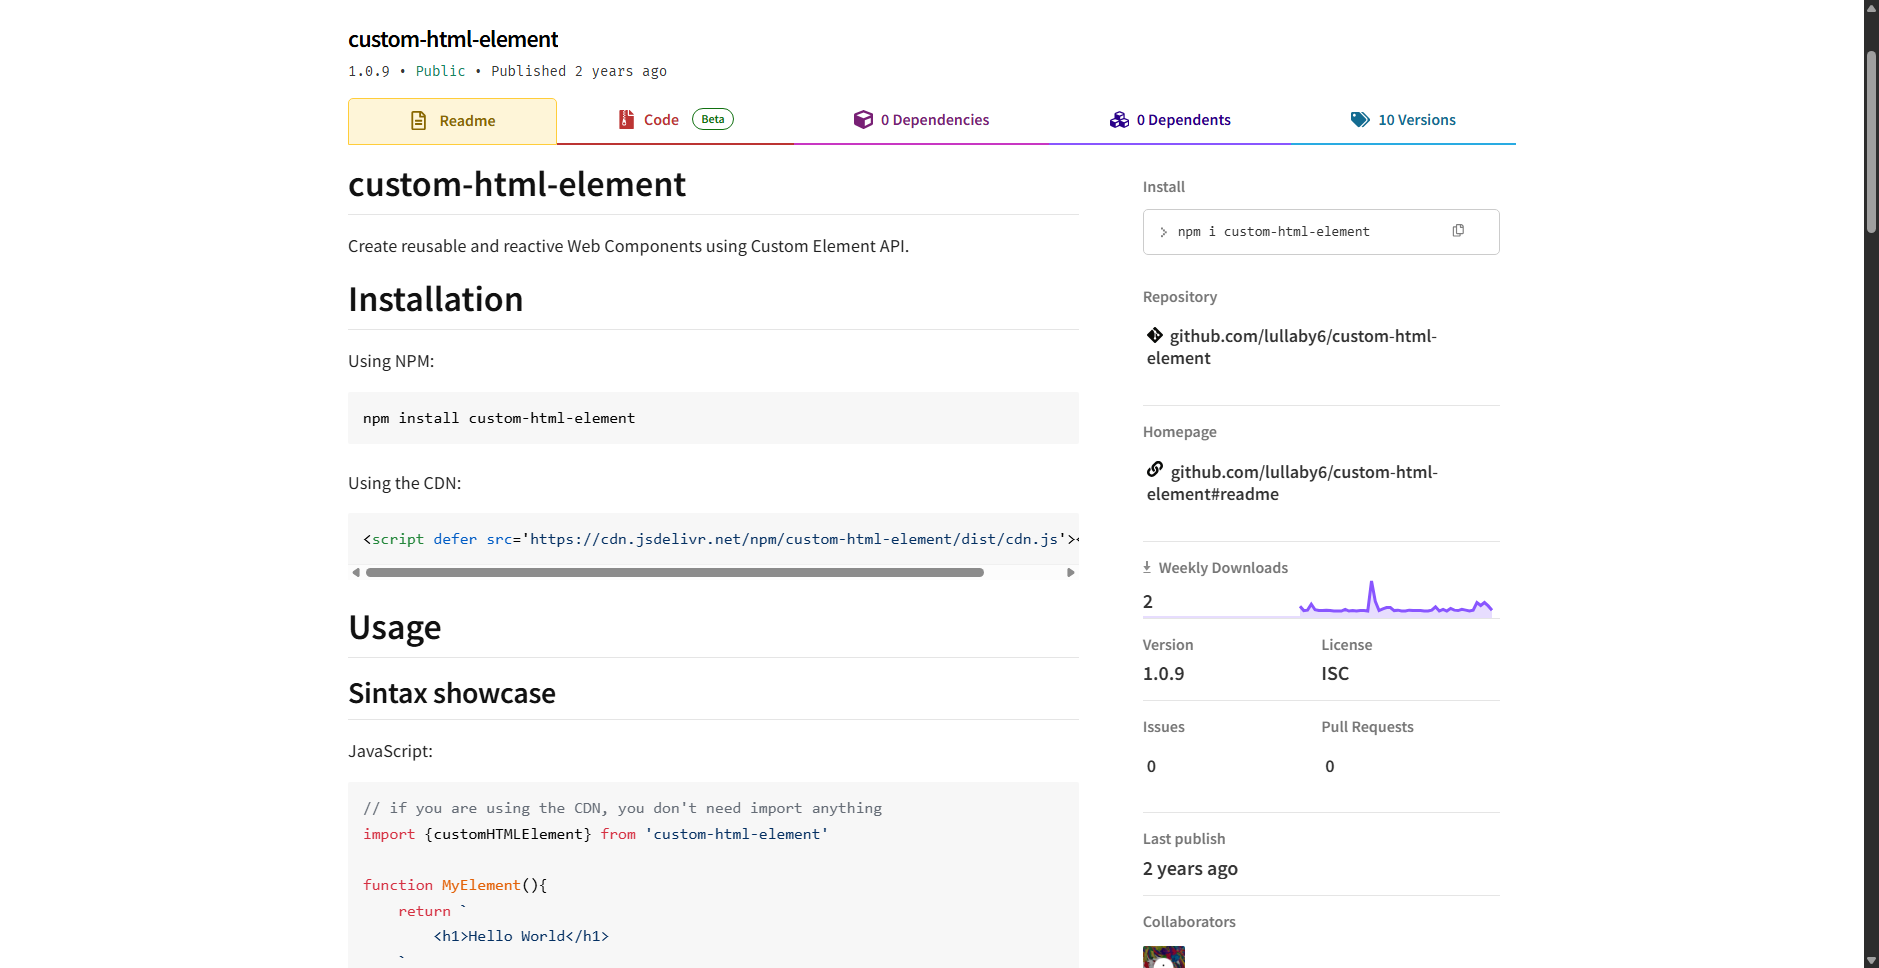
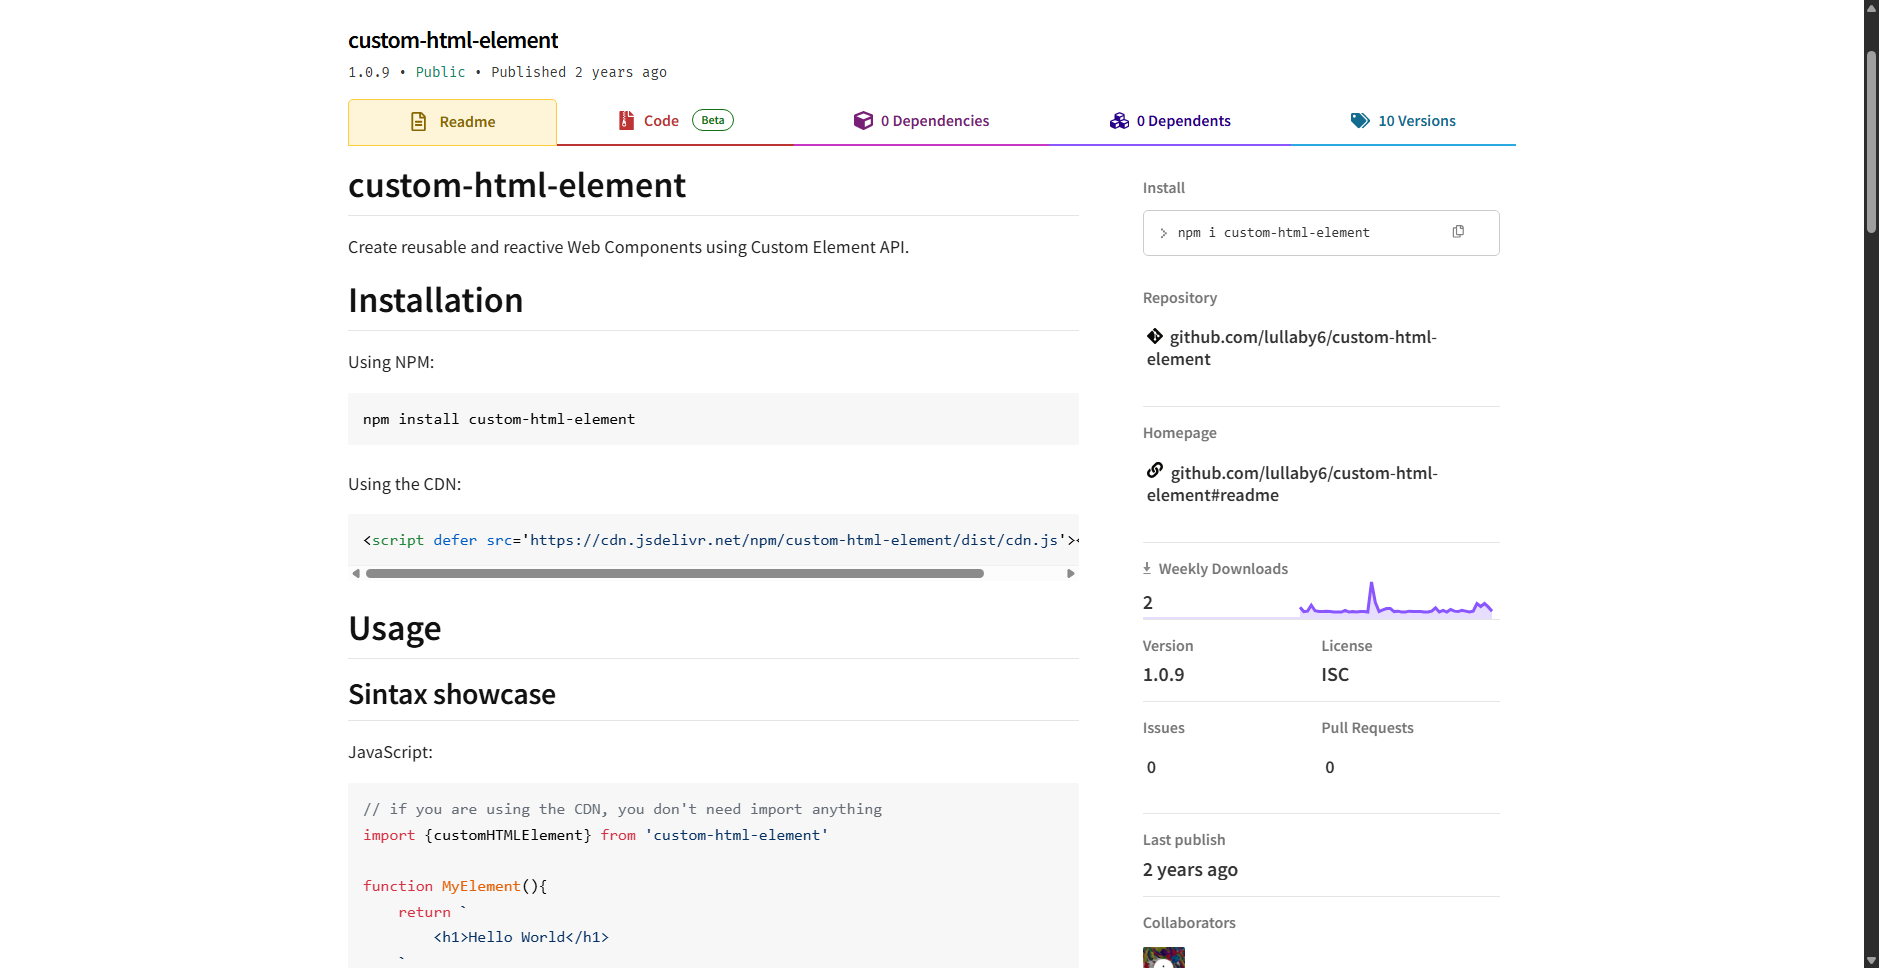
projects images

diff --git a/src/data/projects.ts b/src/data/projects.ts
@@ -2,8 +2,7 @@ export interface Project {
 	name: string;
 	href: string;
 	description: string;
-	iframe?: boolean;
-	image?: string;
+	image: string;
 }
 
 export const projects: Project[] = [
@@ -12,7 +11,6 @@ export const projects: Project[] = [
 		href: "https://github.com/lullaby6/zschema",
 		description:
 			"PHP library to validate schemas and data types, inspired by Zod from TypeScript.",
-		iframe: false,
 		image: "/assets/images/projects/zschema.png",
 	},
 	{
@@ -20,52 +18,52 @@ export const projects: Project[] = [
 		href: "https://www.npmjs.com/package/locale-drive",
 		description:
 			'Web app to share and transfer files across your local network, like a "Google Drive" for your LAN, built with Express.js and React.',
-		iframe: false,
 		image: "/assets/images/projects/Locale Drive.png",
 	},
 	{
 		name: "ChessGPT",
 		href: "https://github.com/lullaby6/ChessGPT",
 		description: "Python game that lets you play chess against ChatGPT.",
-		iframe: false,
 		image: "/assets/images/projects/ChessGPT.png",
 	},
 	{
 		name: "Sviewer",
 		href: "https://sviewer.vercel.app",
 		description: "Image Viewer built with Vue3 and Tailwind CSS.",
+		image: "/assets/images/projects/Sviewer.png",
 	},
 	{
 		name: "Speed Coder",
 		href: "https://lullaby6.github.io/speed-coder",
 		description:
 			"My own take on MonkeyType, a typing speed game made for programmers.",
+		image: "/assets/images/projects/Speed Coder.png",
 	},
 	{
 		name: "GitPush",
 		href: "https://github.com/lullaby6/git-push",
 		description:
 			"Python CLI that runs git add, commit, and push in a single command.",
-		iframe: false,
 		image: "/assets/images/projects/GitPush.png",
 	},
 	{
 		name: "Starbits",
 		href: "https://starbits.site",
 		description: "2D bullet hell game built with Phaser.js.",
+		image: "/assets/images/projects/Starbits.png",
 	},
 	{
 		name: "Fondo de Cine",
 		href: "https://fondodecine.com.ar",
 		description:
 			"Landing page built with Astro for an independent film festival.",
+		image: "/assets/images/projects/Fondo de Cine.png",
 	},
 	{
 		name: "Video Speed Control",
 		href: "https://github.com/lullaby6/video-speed-control",
 		description:
 			"Chromium extension to control the playback speed of any video without limits (handy on YouTube).",
-		iframe: false,
 		image: "/assets/images/projects/Video Speed Control.png",
 	},
 	{
@@ -73,20 +71,20 @@ export const projects: Project[] = [
 		href: "https://lullaby6.github.io/windows-explorer-toggle",
 		description:
 			"C# Desktop App that disables Windows Explorer to free up system resources.",
+		image: "/assets/images/projects/Windows Explorer Toggle.png",
 	},
 	{
 		name: "express-dir-routing",
-		href: "https://www.npmjs.com/package/custom-html-element",
+		href: "https://www.npmjs.com/package/express-dir-routing",
 		description:
 			"A file-based routing system for express.js using directories like NextJS 13 or SvelteKit.",
-		iframe: false,
+		image: "/assets/images/projects/express-dir-routing.png",
 	},
 	{
 		name: "custom-html-element",
 		href: "https://www.npmjs.com/package/custom-html-element",
 		description:
 			"Create reusable and reactive Web Components using Custom Element API.",
-		iframe: false,
 		image: "/assets/images/projects/custom-html-element.png",
 	},
 	{
@@ -94,7 +92,6 @@ export const projects: Project[] = [
 		href: "https://www.npmjs.com/package/input-transform",
 		description:
 			"JavaScript library that provides various input transformations, such as formatting text, validating file uploads, and converting images to Base64 or WebP format.",
-		iframe: false,
 		image: "/assets/images/projects/Input Transform.png",
 	},
 	{
@@ -102,13 +99,13 @@ export const projects: Project[] = [
 		href: "https://lullaby6-generative-art-gallery.vercel.app",
 		description:
 			"A growing gallery of my creative coding experiments, I'm just getting started.",
+		image: "/assets/images/projects/Generative Art Gallery.png",
 	},
 	{
 		name: "Minecraft Mods",
 		href: "https://www.curseforge.com/members/lullaby6/projects?sortBy=TotalDownloads",
 		description:
 			"A collection of Minecraft mods I've created, with over 3 million downloads.",
-		iframe: false,
 		image: "/assets/images/projects/Minecraft Mods.png",
 	},
 ];